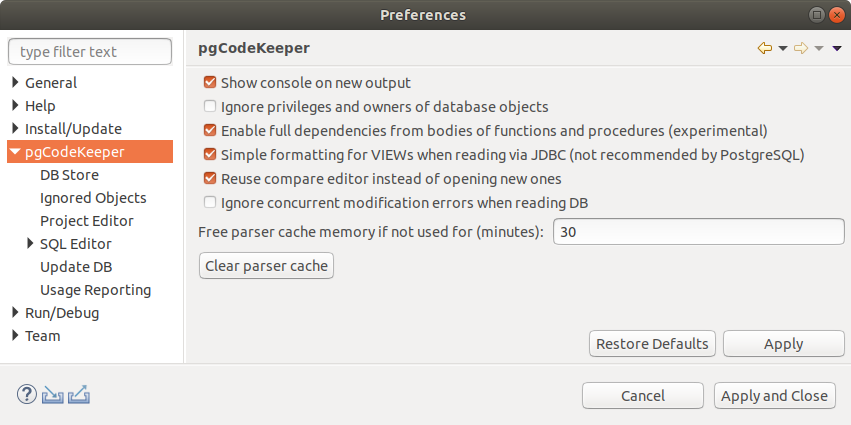
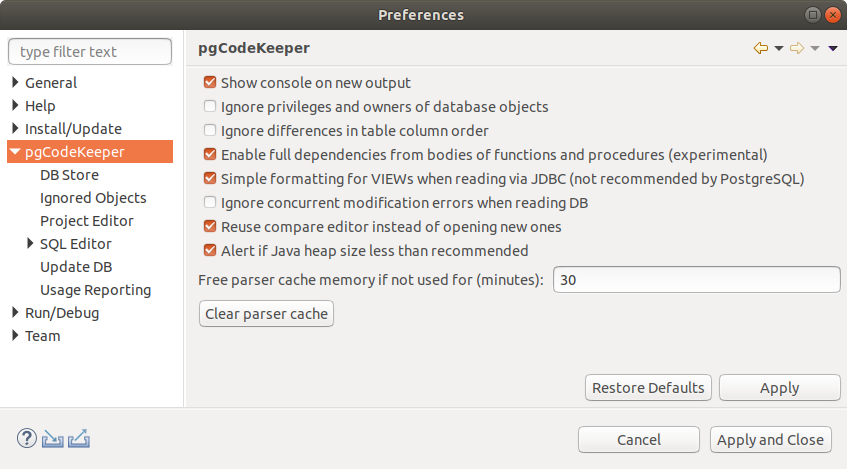
version 5.10.5

diff --git a/docs/conf.py b/docs/conf.py
@@ -53,7 +53,7 @@ copyright = u'2016, pgCodeKeeper'
 # The short X.Y version.
 version = '5.10'
 # The full version, including alpha/beta/rc tags.
-release = '5.10.4'
+release = '5.10.5'
 
 # The language for content autogenerated by Sphinx. Refer to documentation
 # for a list of supported languages.

diff --git a/docs/preferences.rst b/docs/preferences.rst
@@ -9,6 +9,7 @@
 
 - **Show console on new output / Показывать консоль** - позволяет автоматически показывать консоль программы при выводе в нее.
 - **Ignore privileges and owners of database objects / Не учитывать привилегии и владельцев объектов** - позволяет отключить поиск различий в свойствах объектов, связанных с ролями БД.
+- **Ignore differences in table column order / Игнорировать различия в порядке столбцов таблицы** - позволяет не учитывать порядок столбцов при сравнении таблиц.
 - **Reuse compare editor instead of opening new ones / Использовать открытый редактор сравнения вместо создания новых** - позволяет использовать открытый редактор сравнения при сравнения объектов базы данных (В контекстном меню таблицы различий выбрать пункт **Show Diff / Показать различия**).
 - **Enable full dependencies from bodies of functions and procedures (experimental) / Учитывать все зависимости из тел функций и процедур (экспериментально)** - позволяет искать внутри тел функций и процедур зависимости к другим функциям и процедурам.
 - **Simple formatting for VIEVs when reading via JDBC (not recommended by PostgreSQL) / Упрощенное форматирование представлений при чтении через JDBC (не рекомендовано PostgreSQL)** - позволяет использовать упрощенное форматирование представлений, убирая лишние скобки в выражениях. Данный формат может не поддерживаться в будущих версиях PostgeSQL.
@@ -55,6 +56,7 @@
 - **Allow PostgreSQL to validate function bodies in DDL update script / Разрешить PostgreSQL проверять тела функций в скрипте наката** – позволяет при генерации скрипта добавлять проверку "SET check_function_bodies = true;" в начало скрипта.
 - **Print ALTER COLUMN ... TYPE with USING expression / Печатать ALTER COLUMN ... TYPE ... с USING expression** – позволяет добавлять в скрипт выражение, позволяющее изменить тип данных, при изменении типа столбца
 - **Print CREATE INDEX CONCURRENTLY (without locks) / Печатать CREATE INDEX CONCURRENTLY (без блокировок)** – позволяет в скриптах создавать индексы в режиме CONCURRENTLY.
+- **Create a script only from objects selected in the comparison panel / Создавать скрипт только из объектов, выбранных в панели сравнения** – позволяет исключить из скрипта объекты, которые не были выбраны явно.
 - **Migration command / Команда миграции** - позволяет использовать другую утилиту или параметры запуска при применении скрипта наката к базе данных.
 
 

diff --git a/docs/properties.rst b/docs/properties.rst
@@ -21,6 +21,8 @@
 
   - **Ignore privileges and owners of database objects / Не учитывать привилегии и владельцев объектов** - позволяет отключить поиск различий в свойствах объектов, связанных с ролями БД.
 
+  - **Ignore differences in table column order / Игнорировать различия в порядке столбцов таблицы** - позволяет не учитывать порядок столбцов при сравнении таблиц.
+
   - **Enable full dependencies from bodies of functions and procedures (experimental) / Учитывать все зависимости из тел функций и процедур (экспериментально)** - позволяет искать внутри тел функций и процедур зависимости к другим функциям и процедурам.
 
   - **Simple formatting for VIEVs when reading via JDBC (not recommended by PostgreSQL) / Упрощенное форматирование представлений при чтении через JDBC (не рекомендовано PostgreSQL)** - позволяет использовать упрощенное форматирование представлений, убирая лишние скобки в выражениях. Данный формат может не поддерживаться в будущих версиях PostgeSQL.

diff --git a/docs/installation.rst b/docs/installation.rst
@@ -20,7 +20,7 @@ Eclipse Marketplace
 Сайт обновления
 ~~~~~~~~~~~~~~~
 
-Альтернативный путь получить установки pgCodeKeeper – сайт обновлений: в запущенном экземпляре Eclipse версии 4.6 или выше, выбрать **Help > Install New Software...** Откроется мастер установки плагинов средствами сайта обновлений.
+Альтернативный путь установки pgCodeKeeper – сайт обновлений: в запущенном экземпляре Eclipse версии 4.6 или выше, выбрать **Help > Install New Software...** Откроется мастер установки плагинов средствами сайта обновлений.
 
 В поле **Work With** ввести путь к сайту обновлений: http://pgcodekeeper.org/update/.
 

diff --git a/docs/cli_version.rst b/docs/cli_version.rst
@@ -16,7 +16,7 @@ CLI версия
 Начало работы
 ~~~~~~~~~~~~~
 
-Для начала необходимо установить `Java SDK <https://adoptopenjdk.net/>`_ для вашей платформы.
+Для начала необходимо установить `Java SDK <https://jdk.dev/>`_ для вашей платформы.
 
 Последнюю версию cli сборки можно скачать `здесь <https://github.com/pgcodekeeper/pgcodekeeper/releases>`_. В распакованном архиве использовать файл для передачи параметров: **pgcodekeeper-cli.sh** для Linux систем и **pgcodekeeper-cli.bat** для Windows систем.
 
